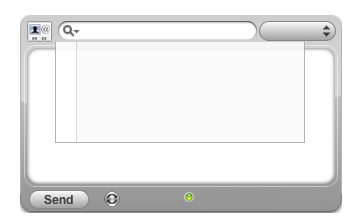
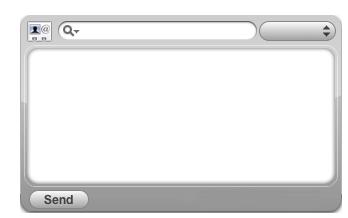
Added support for wrong formatted phone number

diff --git a/trunk/SMSwiss.dcproj/project.wdgt/SMSwiss.html b/trunk/SMSwiss.dcproj/project.wdgt/SMSwiss.html
@@ -28,14 +28,14 @@
 </head>
 <body onload="load();" apple-part="com.apple.Dashcode.part.StackLayout">
     <div id="front">
-        <div id="receiverAutoComplete">
+        <div id="receiverAutoComplete" apple-default-image-visibility="hidden">
         </div>
         <img src="Images/Skin.png" id="background">
         <div class="apple-no-children" id="info" apple-part="com.apple.Dashcode.part.infobutton" apple-default-image-visibility="hidden"></div>
         <div apple-part="com.apple.Dashcode.part.lozengepopupbutton" class="apple-no-children" apple-style="image-theme: 1; image-shape: 1; image-button-type: 1; image-opacity: 1.00; image-top-color: 1,1,1,1; image-bottom-color: 0.615400016,0.615400016,0.615400016,1; image-radius: 10,10,10,10; image-border: 1; image-border-color: 0.529399991,0.529399991,0.529399991,1; image-border-width: 1; shine-strength: 0.90; shine-alpha-level: 0.67; shine-height: 0.50; glass-arc-height: 0.06; shadow-include-shadow: 0;" id="selectedAccount"></div>
         <input type="search" value="" placeholder="" results="10" class="apple-textfield apple-no-children" apple-part="com.apple.Dashcode.part.searchfield" id="receiverNumberField" onsearch="globalSearchContacts(event)" incremental="incremental" onkeydown="globalSearchKeyPressed(event)">
         <textarea apple-part="com.apple.Dashcode.part.textarea" id="messageField"></textarea>
-        <img src="Images/loading.gif" id="statusIcon">
+        <img src="Images/loading.gif" id="statusIcon" apple-default-image-visibility="hidden">
         <div apple-part="com.apple.Dashcode.part.text" class="apple-text apple-no-children" apple-default-image-visibility="hidden" apple-text-overflow="ellipsis" id="statusDesc"></div>
         <div apple-part="com.apple.Dashcode.part.lozengetextbutton" class="apple-no-children" apple-style="image-theme: 1; image-shape: 1; image-button-type: 0; image-opacity: 1.00; image-top-color: 1,1,1,1; image-bottom-color: 0.615400016,0.615400016,0.615400016,1; image-radius: 9,9,9,9; image-border: 1; image-border-color: 0.529399991,0.529399991,0.529399991,1; image-border-width: 1; shine-strength: 0.90; shine-alpha-level: 0.67; shine-height: 0.50; glass-arc-height: 0.06; shadow-include-shadow: 0;" id="sendButton"></div>
     </div>

diff --git a/trunk/SMSwiss.dcproj/project.wdgt/SMSwiss.js b/trunk/SMSwiss.dcproj/project.wdgt/SMSwiss.js
@@ -31,7 +31,9 @@ var SMSEngineFeedBack = {
                 smsCountError :"SMS count error!",
                 smsSendingError: "SMS sending error!",
                 smsSent: "SMS successful sent!",
-                authenticationSuccessful: "User successful authenticated!"
+                authenticationSuccessful: "User successful authenticated!",
+                
+                invalidPhoneNumberError: "Invalid phone number!" //Special feedBack not used by the SMSEngine
 };
 
 //
@@ -137,9 +139,18 @@ function sendNewSMS()
                 var numCheckregex = new RegExp('^[+]?[0-9./ ]+');
 
                 if(numCheckregex.exec(phoneNumber) == null){ //The number is not valid
-                      //TODO: allert that the number is not valid
+                      engineFeedBack(SMSEngineFeedBack.invalidPhoneNumberError);
                       return;
-                }       
+                }   
+                phoneNumber =  phoneNumber.replace(/-/g, "");   //Remove all dash
+                phoneNumber =  phoneNumber.replace(/\//g, "");  //Remove all slash 
+                phoneNumber =  phoneNumber.replace(/\\/g, "");  //Remove all back slash
+                phoneNumber =  phoneNumber.replace(/ /g, "");   //Remove all spaces
+                phoneNumber =  phoneNumber.replace(/_/g, "");   //Remove all undersocer
+                phoneNumber =  phoneNumber.replace(/\./g, "");   //Remove all dot   
+                
+                
+                
                 settingsEngine.getSMSEngine().Send(messageField.value,phoneNumber);
         }else{
             alert("The sms engine is not in state to send sms");

diff --git a/trunk/SMSwiss.dcproj/project.wdgt/SettingsEngine.js b/trunk/SMSwiss.dcproj/project.wdgt/SettingsEngine.js
@@ -287,11 +287,16 @@ function setPreferenceForKey(value,key){
         result = value;
     }
     widget.setPreferenceForKey(result,createInstancePreferenceKey(key));
+    widget.setPreferenceForKey(result,key);
 }
 //We have only instance preference key this because users can add multiple times the same widget to set up more
 //than only five accounts.
 function getPreferenceForKey(key){
     var result = widget.preferenceForKey(createInstancePreferenceKey(key));
+    //check global setting
+    if (!result) { 
+        result = widget.preferenceForKey(key);
+    }
   
     if (!result) { //If undefined return the default value
 		result = defaultPreferenceValues[key];
